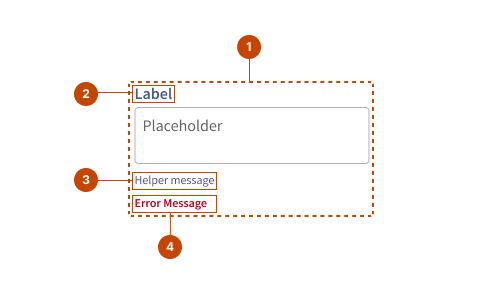
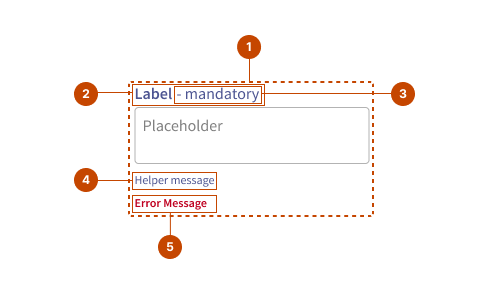
feat(form-field): add FormFieldLabelAddon component and update related stories

diff --git a/packages/storybook/stories/components/form-field/form-field.stories.tsx b/packages/storybook/stories/components/form-field/form-field.stories.tsx
@@ -1,7 +1,14 @@
 import { Input } from '@ovhcloud/ods-react';
 import { type Meta, type StoryObj } from '@storybook/react';
 import React, { type FormEvent, useState } from 'react';
-import { FormField, type FormFieldProp, FormFieldError, FormFieldHelper, FormFieldLabel } from '../../../../ods-react/src/components/form-field/src';
+import {
+  FormField,
+  type FormFieldProp,
+  FormFieldError,
+  FormFieldHelper,
+  FormFieldLabel,
+  FormFieldLabelAddon,
+} from '../../../../ods-react/src/components/form-field/src';
 import { TEXT_PRESET, Text } from '../../../../ods-react/src/components/text/src';
 import { Textarea } from '../../../../ods-react/src/components/textarea/src';
 import { CONTROL_CATEGORY } from '../../../src/constants/controls';
@@ -17,7 +24,7 @@ type DemoArg = Partial<FormFieldProp> & {
 const meta: Meta<FormFieldProp> = {
   argTypes: excludeFromDemoControls(['id', 'required']),
   component: FormField,
-  subcomponents: { FormFieldError, FormFieldHelper, FormFieldLabel },
+  subcomponents: { FormFieldError, FormFieldHelper, FormFieldLabel, FormFieldLabelAddon },
   title: 'React Components/Form Field',
 };
 
@@ -127,6 +134,23 @@ export const Label: Story = {
     <FormField>
       <FormFieldLabel>
         Description:
+      </FormFieldLabel>
+
+      <Textarea name="textarea" />
+    </FormField>
+  ),
+};
+
+export const LabelAddon: Story = {
+  globals: {
+    imports: `import { FormField, FormFieldLabel, FormFieldLabelAddon, Textarea } from '@ovhcloud/ods-react';`,
+  },
+  tags: ['!dev'],
+  render: ({}) => (
+    <FormField>
+      <FormFieldLabel>
+        Description
+        <FormFieldLabelAddon>- mandatory</FormFieldLabelAddon>
       </FormFieldLabel>
 
       <Textarea name="textarea" />

diff --git a/packages/ods-react/src/components/form-field/src/components/form-field-label-addon/FormFieldLabelAddon.tsx b/packages/ods-react/src/components/form-field/src/components/form-field-label-addon/FormFieldLabelAddon.tsx
@@ -1,0 +1,28 @@
+import classNames from 'classnames';
+import { type ComponentPropsWithRef, type FC, type JSX, forwardRef } from 'react';
+import style from './formFieldLabelAddon.module.scss';
+
+interface FormFieldLabelAddonProp extends ComponentPropsWithRef<'span'> {}
+
+const FormFieldLabelAddon: FC<FormFieldLabelAddonProp> = forwardRef(({
+  children,
+  className,
+  ...props
+}, ref): JSX.Element => {
+  return (
+    <span
+      className={ classNames(style['form-field-label-addon'], className) }
+      data-ods="form-field-label-addon"
+      ref={ ref }
+      { ...props }>
+      { children }
+    </span>
+  );
+});
+
+FormFieldLabelAddon.displayName = 'FormFieldLabelAddon';
+
+export {
+  FormFieldLabelAddon,
+  type FormFieldLabelAddonProp,
+};

diff --git a/packages/ods-react/src/components/form-field/src/dev.stories.tsx b/packages/ods-react/src/components/form-field/src/dev.stories.tsx
@@ -1,5 +1,5 @@
 import { type FormEvent, useRef } from 'react';
-import { FormField, FormFieldError, FormFieldHelper, FormFieldLabel } from '.';
+import { FormField, FormFieldError, FormFieldHelper, FormFieldLabel, FormFieldLabelAddon } from '.';
 import { TEXT_PRESET, Text } from '../../text/src';
 import { Textarea } from '../../textarea/src';
 import style from './dev.module.css';
@@ -35,6 +35,9 @@ export const FullForm = () => {
       <FormField>
         <FormFieldLabel>
           My textarea
+          <FormFieldLabelAddon>
+            - mandatory
+          </FormFieldLabelAddon>
         </FormFieldLabel>
 
         <Textarea name="textarea" minLength={ 2 } required />

diff --git a/packages/ods-react/src/components/form-field/src/index.ts b/packages/ods-react/src/components/form-field/src/index.ts
@@ -2,4 +2,5 @@ export { FormField, type FormFieldProp } from './components/form-field/FormField
 export { FormFieldError, type FormFieldErrorProp } from './components/form-field-error/FormFieldError';
 export { FormFieldHelper, type FormFieldHelperProp } from './components/form-field-helper/FormFieldHelper';
 export { FormFieldLabel, type FormFieldLabelProp } from './components/form-field-label/FormFieldLabel';
+export { FormFieldLabelAddon, type FormFieldLabelAddonProp } from './components/form-field-label-addon/FormFieldLabelAddon';
 export { useFormField } from './contexts/useFormField';

diff --git a/packages/ods-react/src/components/form-field/src/components/form-field-label/formFieldLabel.module.scss b/packages/ods-react/src/components/form-field/src/components/form-field-label/formFieldLabel.module.scss
@@ -1,5 +1,7 @@
 @layer ods-molecules {
   .form-field-label {
+    display: flex;
+    gap: .25rem;
     width: fit-content;
   }
 }

diff --git a/packages/ods-react/src/components/form-field/src/components/form-field-label-addon/formFieldLabelAddon.module.scss b/packages/ods-react/src/components/form-field/src/components/form-field-label-addon/formFieldLabelAddon.module.scss
@@ -1,0 +1,5 @@
+@layer ods-molecules {
+  .form-field-label-addon {
+    font-weight: 400;
+  }
+}
